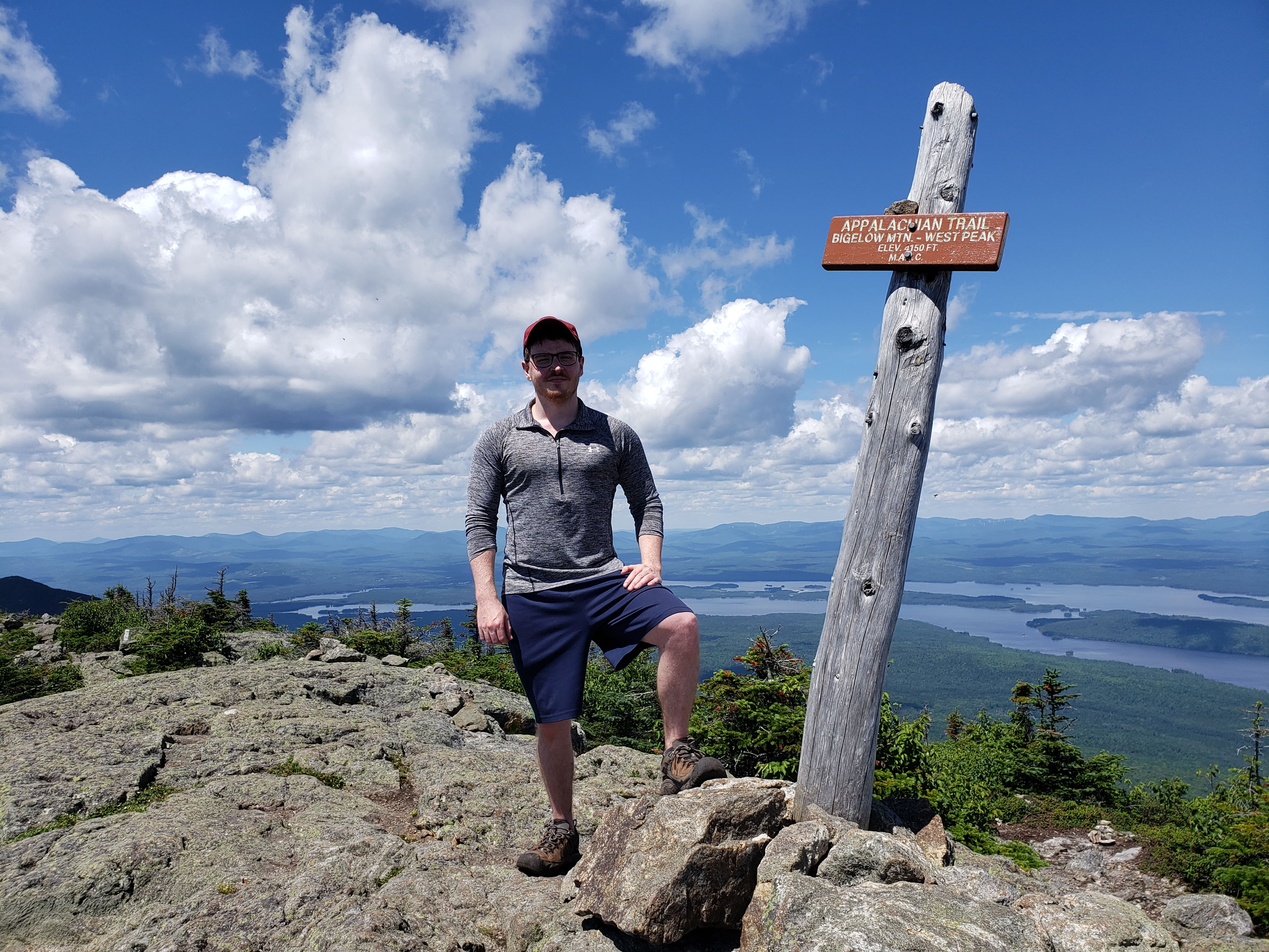
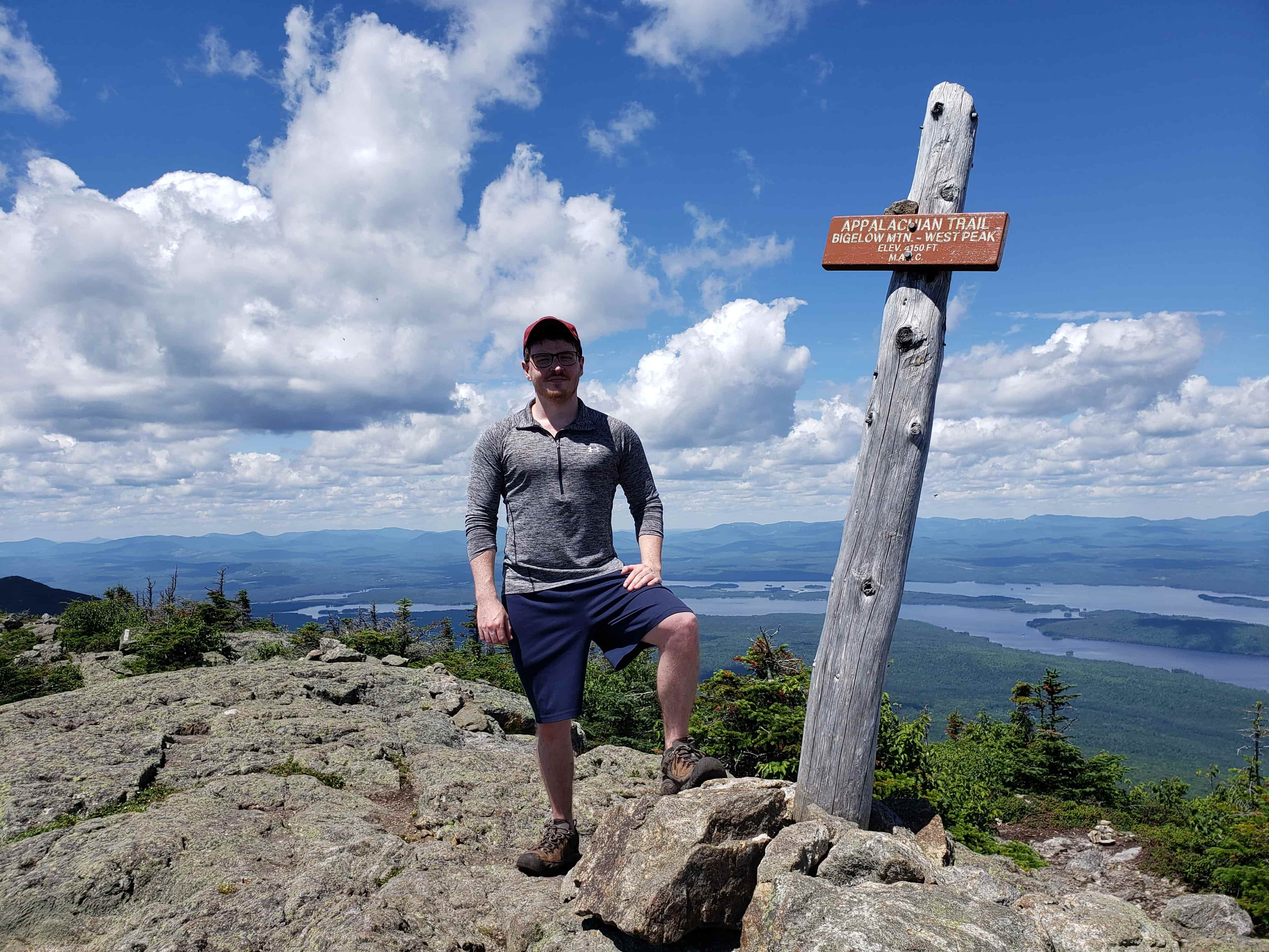
Compressed about me images to reduce file size. Changed html,css, and object properties of the familiar with and proficient at from weekly/daily usage.

Changed region(s): [[0.375, 0.4352, 0.4688, 0.5906]]

diff --git a/src/components/skills/card/card.jsx b/src/components/skills/card/card.jsx
@@ -33,16 +33,16 @@ function Card(props) {
 
             <h3 className="card_title">{props.type}</h3>
             <div className="tech_stack">
-                <h4 className="weekly_title">Proficient at</h4>
-                <div className="weekly_usage">
+                <h4 className="proficient_title">Proficient at</h4>
+                <div className="proficient_languages">
 
-                    {createTechIcon(props.weekly)}
+                    {createTechIcon(props.proficient)}
 
                 </div>
-                <h4 className="past_title">Familiar with</h4>
-                <div className="past_usage">
+                <h4 className="familiar_title">Familiar with</h4>
+                <div className="familiar_languages">
 
-                    {createTechIcon(props.past)}
+                    {createTechIcon(props.familiar)}
 
                 </div>
             </div>

diff --git a/src/components/projects/panels/description_panel.jsx b/src/components/projects/panels/description_panel.jsx
@@ -17,7 +17,7 @@ function DescriptionPanel(props) {
             <ul>
                 {array.map((value, index) => {
                     return (
-                        <li className="list_item" key={index}>{value}</li>
+                        <li className="list_item" key={"list_item_" + index}>{value}</li>
                     )
                 })}
             </ul>
@@ -29,9 +29,9 @@ function DescriptionPanel(props) {
     function arrayIntoDescription(descriptionText) {
         return (
             <div>
-                {descriptionText.map((value) => {
+                {descriptionText.map((value, index) => {
 
-                    return <p>{value}</p>;
+                    return <p key={"description_section_" + index}>{value}</p>;
 
                 })
                 }

diff --git a/src/components/about/about.jsx b/src/components/about/about.jsx
@@ -20,9 +20,9 @@ function About() {
         return (
             images.map((image, index) => {
                 if (index === currentImgNum) {
-                    return <button className="carousel_button_current" onClick={() => setCurrentImgNum(index)}></button>
+                    return <button key={"personal_image_" + index} className="carousel_button_current" onClick={() => setCurrentImgNum(index)}></button>
                 } else {
-                    return <button className="carousel_button" onClick={() => setCurrentImgNum(index)}></button>
+                    return <button key={"personal_image_" + index} className="carousel_button" onClick={() => setCurrentImgNum(index)}></button>
 
                 }
             })

diff --git a/src/components/skills/card/card.scss b/src/components/skills/card/card.scss
@@ -25,7 +25,7 @@
     flex-wrap: nowrap;
     color: white;
 
-    .weekly_title {
+    .proficient_title {
       padding-top: 0.5rem;
       padding-left: 2rem;
       text-align: left;
@@ -34,7 +34,7 @@
       font-size: 1.3rem;
     }
 
-    .past_title {
+    .familiar_title {
       padding-left: 2rem;
       text-align: left;
       font-family: $title-font;
@@ -42,11 +42,11 @@
       font-size: 1.3rem;
     }
 
-    .weekly_usage {
+    .proficient_languages {
       @include tech-usage-container;
     }
 
-    .past_usage {
+    .familiar_languages {
       @include tech-usage-container;
       height: 8rem;
       padding-bottom: 1rem;

diff --git a/src/components/skills/languages/frontEndLanguages.js b/src/components/skills/languages/frontEndLanguages.js
@@ -9,14 +9,14 @@ import jquery from '../../../assets/icons/png/jquery.png';
 function fillFrontEndLanguages(obj){
     obj = {
         type: "Front End",
-        weekly: {
+        proficient: {
             HTML5: html5,
             CSS3: css3,
             Javascript: javascript,
             React: react,
             Sass: sass
         },
-        past: {
+        familiar: {
             Bootstrap: bootstrap,
             jQuery: jquery
         }

diff --git a/src/components/skills/languages/toolSoftware.js b/src/components/skills/languages/toolSoftware.js
@@ -9,14 +9,14 @@ import gitlab from '../../../assets/icons/png/gitlab.png';
 function fillToolSoftware(obj){
     obj = {
         type: "Tools",
-        weekly: {
+        proficient: {
             Github: github,
             Git: git,
             npm: npm,
             Figma: figma,
             Jira: jira
         },
-        past: {
+        familiar: {
             Photoshop: photoshop,
             Gitlab: gitlab
         }

diff --git a/src/components/skills/languages/backEndLanguages.js b/src/components/skills/languages/backEndLanguages.js
@@ -6,10 +6,10 @@ import mongodb from '../../../assets/icons/svg/mongodb.svg';
 function fillBackEndLanguages(obj){
     obj = {
         type: "Back End",
-        weekly: {
+        proficient: {
             Node: node
         },
-        past: {
+        familiar: {
             PHP: php,
             MySQL: mysql,
             MongoDB: mongodb

diff --git a/src/components/contact/contact.scss b/src/components/contact/contact.scss
@@ -4,7 +4,7 @@
 #contact {
   max-width: $max-width-large;
   text-align: center;
-  background: url('../../assets/contact-background.png');
+  background: url('../../assets/contact_section_images/contact-background.png');
   background-size: cover;
   background-position: 25% 25%;
   background-repeat: no-repeat;
